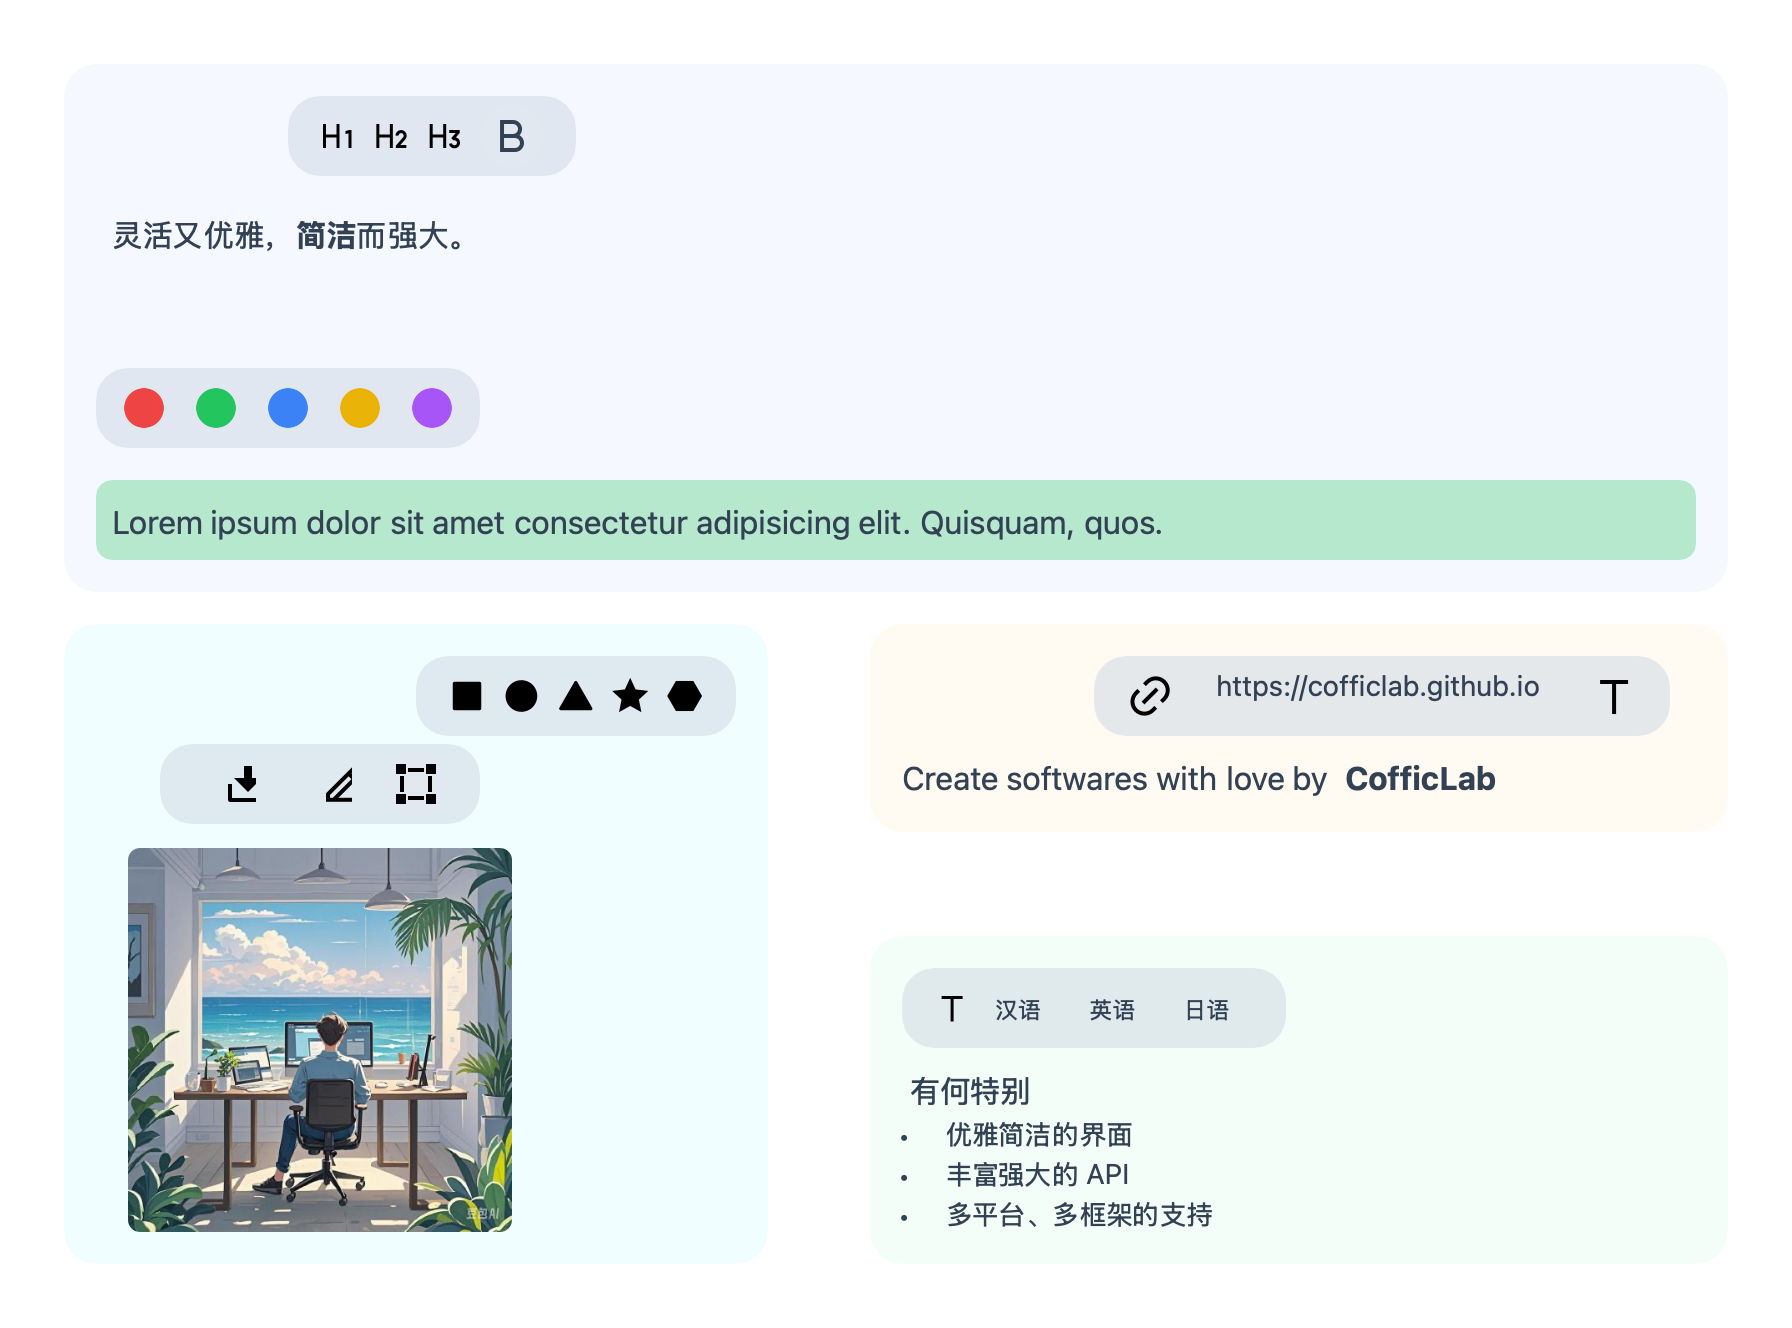
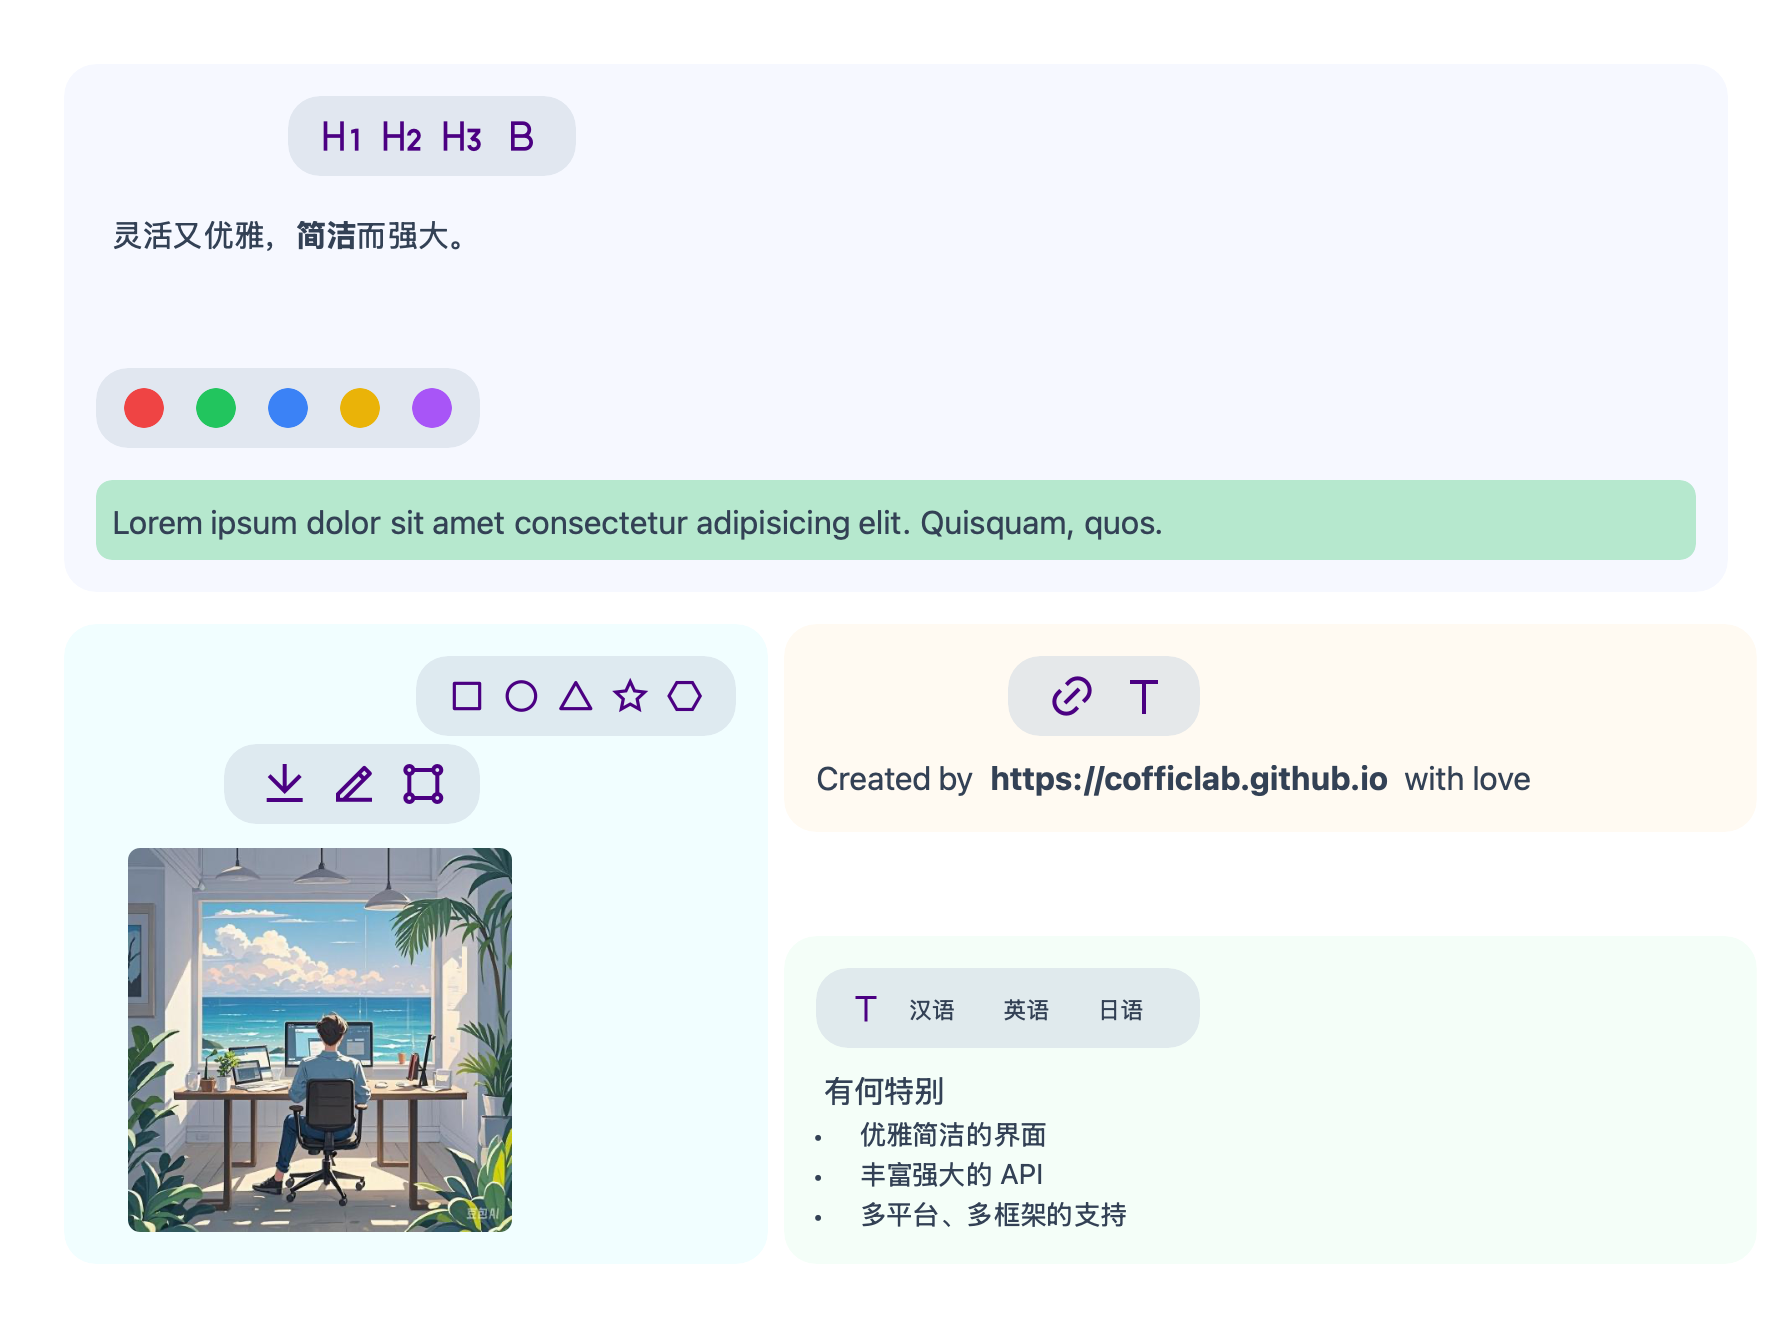
💄 UI:  Update user interface elements

diff --git a/src/pages/Features.vue b/src/pages/Features.vue
@@ -1,5 +1,5 @@
 <script lang="ts" setup>
-import { RiBold, RiItalic, RiUnderline, RiStrikethrough, RiInformation2Line, RiH1, RiH2, RiH3, RiLink, RiText, RiDownload2Fill, RiEdit2Fill, RiEdit2Line, RiShape2Fill, RiSquareFill, RiCircleFill, RiTriangleFill, RiStarFill, RiHexagonFill, RiPentagonFill } from '@remixicon/vue';
+import { RiBold, RiH1, RiH2, RiH3, RiLink, RiText, RiEdit2Line, RiTriangleLine, RiDownloadLine, RiShapeLine, RiSquareLine, RiCircleLine, RiStarLine, RiHexagonLine } from '@remixicon/vue';
 import SampleImage from '../assets/sample.jpeg';
 import html2canvas from 'html2canvas';
 import DomHelper from '../helper/DomHelper';
@@ -13,14 +13,6 @@ const colorClass = [
     'bg-purple-500',
 ]
 
-const shapeClass = [
-    'mask mask-heart bg-blue-500/80 ',
-    'mask mask-squircle bg-blue-500/80',
-    'mask mask-decagon bg-blue-500/80',
-    'mask mask-pentagon bg-blue-500/80',
-    'mask mask-diamond bg-blue-500/80',
-]
-
 const languages = [
     '汉语',
     '英语',
@@ -28,12 +20,12 @@ const languages = [
 ]
 
 const menuClass = 'bg-slate-300/50 px-4 py-2 h-10 flex flex-row shadow gap-2 justify-center items-center rounded-2xl'
-const activeMenuClass = 'bg-slate-200 justify-center items-center rounded-2xl p-1'
 const cardClass1 = 'bg-indigo-100/30 rounded-2xl p-4 shadow-xl'
 const cardClass2 = 'bg-cyan-100/30 rounded-2xl p-4 shadow-2xl'
 const cardClass3 = 'bg-orange-100/30 rounded-2xl p-4 shadow-2xl'
 const cardClass4 = 'bg-green-100/30 rounded-2xl p-4 shadow-2xl'
 
+const iconColor = 'indigo'
 const iconSize = '24px'
 
 function downloadAsImage() {
@@ -64,14 +56,12 @@ function downloadAsImage() {
         <div id="box" class="max-w-4xl mx-auto p-8">
             <div id="section1" :class="cardClass1">
                 <div :class="menuClass" class="w-36 ml-24">
-                    <RiH1 :size="iconSize" color="primary" />
-                    <RiH2 :size="iconSize" color="primary" />
-                    <RiH3 :size="iconSize" color="primary" />
-                    <div :class="activeMenuClass">
-                        <RiBold :size="iconSize"></RiBold>
-                    </div>
+                    <RiH1 :size="iconSize" :color="iconColor" />
+                    <RiH2 :size="iconSize" :color="iconColor" />
+                    <RiH3 :size="iconSize" :color="iconColor" />
+                    <RiBold :size="iconSize" :color="iconColor" />
                 </div>
-                <p class="mt-2 ring-1 rounded-2xl p-2 self-end ">
+                <p class="mt-2 rounded-2xl p-2 self-end ">
                     灵活又优雅，<b>简洁</b>而强大。
                 </p>
                 <div :class="menuClass" class="w-48 mb-1 mt-12">
@@ -89,44 +79,42 @@ function downloadAsImage() {
             <div id="section2" class="flex flex-row bg-indigo-500/0 mt-4 rounded-2xl gap-2 justify-between">
                 <div id="image" :class="cardClass2">
                     <div :class="menuClass" class="rounded-box z-50 shadow w-40 ml-40 mb-1 flex flex-row gap-2">
-                        <RiSquareFill color="primary" />
-                        <RiCircleFill color="primary" />
-                        <RiTriangleFill color="primary" />
-                        <RiStarFill color="primary" />
-                        <RiHexagonFill color="primary" />
+                        <RiSquareLine :color="iconColor" :size="iconSize" />
+                        <RiCircleLine :color="iconColor" :size="iconSize" />
+                        <RiTriangleLine :color="iconColor" :size="iconSize" />
+                        <RiStarLine :color="iconColor" :size="iconSize" />
+                        <RiHexagonLine :color="iconColor" :size="iconSize" />
                     </div>
-                    <div :class="menuClass" class="mt-1 w-40 ring-1 ml-8">
-                        <RiDownload2Fill color="primary" />
-                        <RiEdit2Line color="primary" />
-                        <div :class="activeMenuClass">
-                            <RiShape2Fill :size="iconSize" color="primary" />
-                        </div>
+                    <div :class="menuClass" class="mt-1 w-32 ml-16">
+                        <RiDownloadLine :color="iconColor" :size="iconSize" />
+                        <RiEdit2Line :color="iconColor" :size="iconSize" />
+                        <RiShapeLine :color="iconColor" :size="iconSize" />
                     </div>
                     <div class="flex justify-start pr-24 ml-4 mt-2">
                         <img :src="SampleImage"
-                            class="rounded-md w-48 h-48 mt-1 self-end items-end flex justify-self-end ring-2">
+                            class="rounded-md w-48 h-48 mt-1 self-end items-end flex justify-self-end">
                     </div>
                 </div>
 
                 <div id="link-list" class="flex flex-col gap-2 justify-between">
                     <div id="link" :class="cardClass3">
-                        <div :class="menuClass" class="w-72 ml-24">
-                            <RiLink color="primary" />
-                            <input type="text" value="https://cofficlab.github.io"
-                                class="w-48 rounded-none input ring-1 input-sm" />
-                            <RiText color="primary" />
+                        <div :class="menuClass" class="w-24 ml-24">
+                            <RiLink :color="iconColor" :size="iconSize" />
+                            <RiText :color="iconColor" :size="iconSize" />
                         </div>
                         <div class="flex justify-start pr-24 ml-0 mt-2">
-                            <p>Create softwares with love by <b class="ring-1 rounded-2xl p-1">CofficLab</b></p>
+                            <p class="text-nowrap">Created by <b class="rounded-2xl p-1">https://cofficlab.github.io</b>
+                                with love
+                            </p>
                         </div>
                     </div>
                     <div id="list" :class="cardClass4">
                         <div :class="menuClass" class="w-48">
-                            <RiText color="secondary" />
+                            <RiText :color="iconColor" :size="iconSize" />
                             <div v-for="language in languages" class="text-xs w-12 rounded-full p-1">{{ language }}
                             </div>
                         </div>
-                        <p class="mt-2"><span class="ring-1 rounded-2xl p-1">有何特别</span></p>
+                        <p class="mt-2"><span class="rounded-2xl p-1">有何特别</span></p>
                         <ul class="list-disc list-inside ml-2 text-sm">
                             <li>优雅简洁的界面</li>
                             <li>丰富强大的 API</li>
